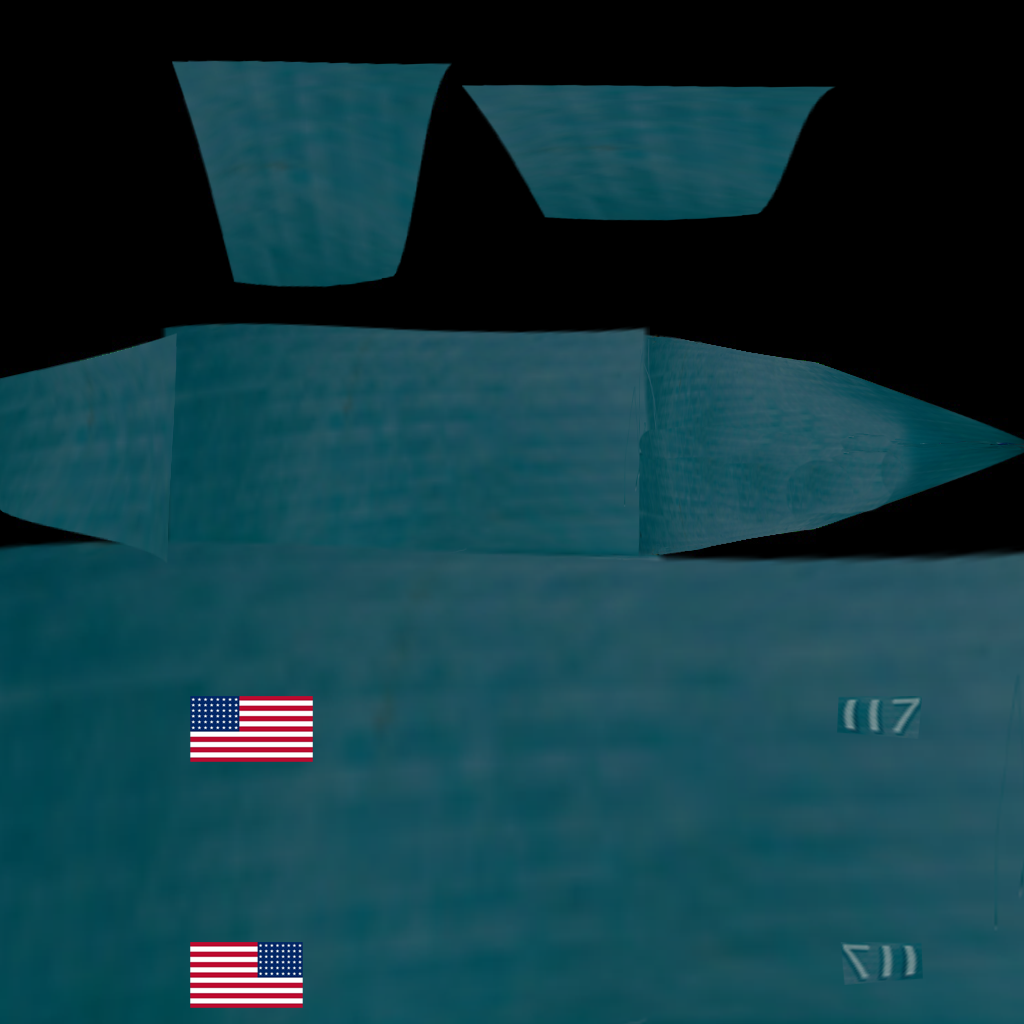
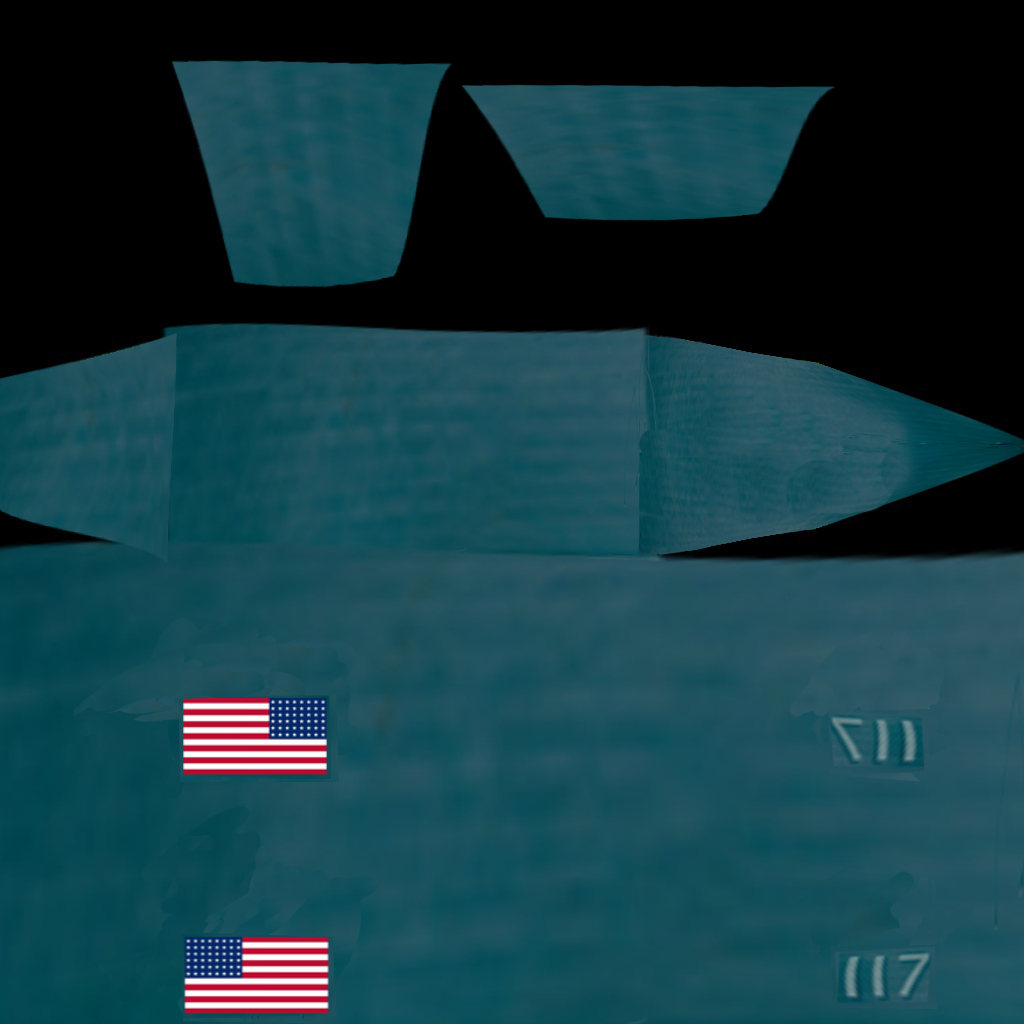
skin del barco

diff --git a/src/sceneManager.js b/src/sceneManager.js
@@ -37,7 +37,7 @@ export class SceneManager {
 			default:
 				break;
 		}
-	}
+	};
 
 	handleCameraSwitch = (event) => {
         const key = event.key;
@@ -55,15 +55,67 @@ export class SceneManager {
 		model.name = 'Destructor';
 		this.scene.add(model);
 		document.addEventListener('keydown', this.handleKeyPress);
-	}
+
+		const loadShipSkin = new THREE.TextureLoader();
+		loadShipSkin.load('/lol.png', this.onShipSkinLoaded, this.onProgress, this.onLoadError);
+		const loadTurretSkin = new THREE.TextureLoader();
+		loadTurretSkin.load('/torreta_skin.jpg', this.onTurretSkinLoaded, this.onProgress, this.onLoadError);
+	};
 
 	onProgress = (event) =>{
 		console.log((event.loaded / event.total * 100) + '% cargado');
-	}
+	};
 
 	onLoadError = (error) => {
 		console.error('Error al cargar: ', error);
-	}
+	};
+
+	onTextureLoaded = (heightMap) => {
+		console.log('Heightmap cargado correctamente');
+
+		heightMap.minFilter = THREE.LinearFilter;
+		heightMap.magFilter = THREE.LinearFilter;
+		heightMap.anisotropy = 16;
+
+		const islandSize = 1000;
+		const segments = 256;
+
+		const islandGeometry = new THREE.PlaneGeometry(islandSize, islandSize, segments, segments);
+		islandGeometry.rotateX(-Math.PI / 2);
+
+		const islandMaterial = new THREE.MeshPhongMaterial({
+		displacementMap: heightMap,
+		displacementScale: 112,
+		displacementBias: 0,
+		color: 0x3a5f3a,
+		side: THREE.DoubleSide
+		});
+
+		const island = new THREE.Mesh(islandGeometry, islandMaterial);
+		island.position.y = -10;
+		const islandGroup = this.scene.getObjectByName('islandGroup');
+		islandGroup.add(island);
+	};
+
+	onShipSkinLoaded = (map) => {
+		console.log('Mapa de colores del destructor cargado correctamente: ', map);
+		map.flipY = false;
+		const destructor = this.scene.getObjectByName('destructor');
+		if (destructor) {
+			destructor.material.map = map;
+			destructor.material.needsUpdate = true;
+		}
+	};
+
+	onTurretSkinLoaded = (map) => {
+		console.log('Mapa de colores de la torreta cargado correctamente: ', map);
+		map.flipY = false;
+		const torreta = this.scene.getObjectByName('torreta');
+		if (torreta) {
+			torreta.material.map = map;
+			torreta.material.needsUpdate = true;
+		}
+	};
 
 	createZeroFuselage() {
         // ... (Secciones 1 y 2 - Perfil y Parámetros - sin cambios)
@@ -299,46 +351,10 @@ export class SceneManager {
 		scene.add(water);
 
 		const islandGroup = new THREE.Group();
-		scene.add(islandGroup);
-
+		islandGroup.name = 'islandGroup';
+		this.scene.add(islandGroup);
 		const textureLoader = new THREE.TextureLoader();
-
-		textureLoader.load(
-			'/iwojima.png',
-
-			(heightMap) => {
-				console.log('Heightmap cargado correctamente');
-
-				heightMap.minFilter = THREE.LinearFilter;
-				heightMap.magFilter = THREE.LinearFilter;
-				heightMap.anisotropy = 16;
-
-				const islandSize = 1000;
-				const segments = 256;
-
-				const islandGeometry = new THREE.PlaneGeometry(islandSize, islandSize, segments, segments);
-				islandGeometry.rotateX(-Math.PI / 2);
-
-				const islandMaterial = new THREE.MeshPhongMaterial({
-				displacementMap: heightMap,
-				displacementScale: 112,
-				displacementBias: 0,
-				color: 0x3a5f3a,
-				side: THREE.DoubleSide
-				});
-
-				const island = new THREE.Mesh(islandGeometry, islandMaterial);
-				island.position.y = -10;
-				islandGroup.add(island);
-			},
-
-			undefined,
-
-			(error) => {
-				console.error('Error al cargar iwojima.png:', error);
-				console.warn('Asegúrate de que el archivo esté en: public/iwojima.png');
-			}
-		);
+		textureLoader.load('/iwojima.png', this.onTextureLoaded, this.onProgress, this.onLoadError);
 
 		const geometry = new THREE.BufferGeometry();
 		const vertices = [];
